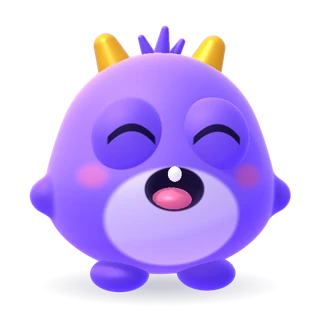
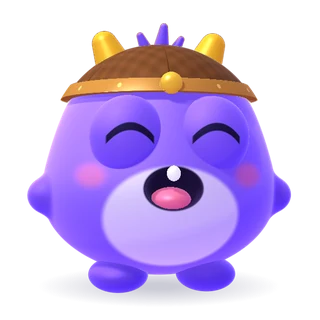
Canavara deri miğfer (her yerde); Güneş Ülkesi'nde zırh + güneş armalı kalkan
Claude-Session: https://claude.ai/code/session_01Ey5QmbkWAGVHGFmAecVhN7

diff --git a/index.html b/index.html
@@ -5733,7 +5733,8 @@ var M3FS=[
 "precision highp float;",
 "uniform vec2 uRes;uniform mat3 uR;uniform vec4 uF;uniform vec4 uA;uniform vec4 uS;uniform vec4 uV;",
 "const float D=7.0;const float HH=1.62;",
-"float gB;float gArm;float gFoot;float gHorn;float gEye;float gTon;float gTooth;float gCav;float gG;float gFm;float gTuft;",
+"float gB;float gArm;float gFoot;float gHorn;float gEye;float gTon;float gTooth;float gCav;float gG;float gFm;float gTuft;float gHelm;float gBand;float gEmb;float gPl;float gSh;",
+"const vec3 SHC=vec3(-1.05,-0.40,0.36);const vec3 SHN=vec3(-0.70,0.0,0.714);",
 "float smin(float a,float b,float k){float h=clamp(0.5+0.5*(b-a)/k,0.0,1.0);return mix(b,a,h)-k*h*(1.0-h);}",
 "float sdEll(vec3 p,vec3 r){float k0=length(p/r);float k1=length(p/(r*r));return k0*(k0-1.0)/max(k1,1e-4);}",
 "float sdRC(vec3 p,vec3 a,vec3 b,float r1,float r2){vec3 ba=b-a;float l2=dot(ba,ba);float rr=r1-r2;float a2=l2-rr*rr;float il2=1.0/l2;vec3 pa=p-a;float y=dot(pa,ba);float z=y-l2;vec3 xv=pa*l2-ba*y;float x2=dot(xv,xv);float y2=y*y*l2;float z2=z*z*l2;float k=sign(rr)*rr*rr*x2;if(sign(z)*a2*z2>k)return sqrt(x2+z2)*il2-r2;if(sign(y)*a2*y2<k)return sqrt(x2+y2)*il2-r1;return (sqrt(x2*a2*il2)+y*rr)*il2-r1;}",
@@ -5760,7 +5761,17 @@ var M3FS=[
 " gFoot=sdEll(a-vec3(0.37,-1.0+lift,0.20+fw),vec3(0.245,0.145,0.31));",
 " gTuft=1e3;",
 " if(uV.y>0.5){gTuft=min(sdRC(p,vec3(0.0,0.82,0.02),vec3(0.03,1.10,0.10),0.085,0.03),min(sdRC(p,vec3(-0.07,0.82,0.0),vec3(-0.17,1.03,0.04),0.07,0.028),sdRC(p,vec3(0.08,0.82,0.0),vec3(0.19,1.01,0.02),0.065,0.026)));}",
-" float d=min(min(body,gHorn),min(gEye,gFoot));d=min(d,min(min(gTon,gTooth),gTuft));",
+" gHelm=1e3;gBand=1e3;gEmb=1e3;gPl=1e3;gSh=1e3;",
+" if(uV.w>0.5){gHelm=max(sdEll(p,vec3(0.94,0.95,0.905)),0.53-p.y);",
+"  gBand=max(sdEll(p,vec3(0.97,0.975,0.935)),abs(p.y-0.535)-0.055);",
+"  gEmb=sdEll(p-vec3(0.0,0.545,0.79),vec3(0.085,0.085,0.06));}",
+" if(uV.w>1.5){",
+"  float pa=max(sdEll(a-vec3(0.90,-0.25,0.15),vec3(0.245,0.19,0.225)),-(a.y+0.31));",
+"  float pl=max(sdEll(p-vec3(0.0,-0.36,0.0),vec3(1.005,0.655,0.925)),max(p.y+0.50,-0.84-p.y));",
+"  gPl=min(pa,pl);",
+"  vec3 v=p-SHC;float dn=dot(v,SHN);vec3 pp=v-dn*SHN;float pr=length(pp);",
+"  gSh=max(abs(dn-0.07*(1.0-pr*pr/0.1225))-0.03,pr-0.35)*0.8;}",
+" float d=min(min(body,gHorn),min(gEye,gFoot));d=min(d,min(min(gTon,gTooth),gTuft));d=min(d,min(min(gHelm,gBand),min(gEmb,min(gPl,gSh))));",
 " return d*min(uS.x,uS.y)*mix(0.9,0.8,step(0.5,uV.x));}",
 "vec3 nrm(vec3 p){vec2 e=vec2(0.0025,-0.0025);return normalize(e.xyy*map(p+e.xyy)+e.yyx*map(p+e.yyx)+e.yxy*map(p+e.yxy)+e.xxx*map(p+e.xxx));}",
 "void main(){",
@@ -5778,8 +5789,19 @@ var M3FS=[
 " vec3 L=normalize(vec3(-0.45,0.80,0.62))*uR;vec3 L2=normalize(vec3(0.75,0.15,-0.55))*uR;vec3 V=-md;vec3 UP=vec3(0.0,1.0,0.0)*uR;",
 " vec3 BODY=vec3(0.615,0.455,1.0);vec3 DARK=vec3(0.50,0.33,0.95);vec3 INK=vec3(0.13,0.10,0.30);",
 " vec3 base=BODY;float gloss=0.0;float fuzz=1.0;float glow=0.0;",
-" float mn=min(min(gB,gHorn),min(gEye,gFoot));mn=min(mn,min(min(gTon,gTooth),gTuft));",
-" if(mn==gTooth){base=vec3(1.0);gloss=0.4;fuzz=0.0;glow=0.5;}",
+" float mn=min(min(gB,gHorn),min(gEye,gFoot));mn=min(mn,min(min(gTon,gTooth),gTuft));mn=min(mn,min(min(gHelm,gBand),min(gEmb,min(gPl,gSh))));",
+" if(mn==gEmb){base=vec3(1.0,0.80,0.28);gloss=0.9;fuzz=0.0;glow=0.18;}",
+" else if(mn==gBand){base=vec3(0.80,0.56,0.26);gloss=0.75;fuzz=0.0;float rv=1.0-smoothstep(0.035,0.05,length(vec2(fract(atan(q.x,q.z)*1.91+0.5)-0.5,(q.y-0.535)*2.2)));base=mix(base,vec3(1.0,0.86,0.5),rv*0.8);}",
+" else if(mn==gHelm){base=vec3(0.52,0.31,0.17);fuzz=0.15;gloss=0.25;float an=atan(q.x,q.z);float sm=1.0-smoothstep(0.01,0.03,abs(fract(an*0.955+0.5)-0.5)/max(0.2,1.0-q.y));base=mix(base,vec3(0.32,0.18,0.09),sm*0.8);base*=0.92+0.08*sin(q.x*40.0)*sin(q.z*37.0);}",
+" else if(mn==gPl){base=vec3(0.56,0.61,0.70);gloss=0.9;fuzz=0.0;glow=0.08;float ln=1.0-smoothstep(0.006,0.016,min(abs(q.y+0.63),abs(q.y+0.74)));base=mix(base,vec3(0.25,0.27,0.34),ln*0.85);",
+"  float ed=1.0-smoothstep(0.02,0.045,min(abs(q.y+0.50),abs(q.y+0.84)));base=mix(base,vec3(0.86,0.62,0.26),ed*0.95);if(q.y>-0.36){base=vec3(0.62,0.66,0.76);}",
+"  float bk=1.0-smoothstep(0.07,0.085,length(vec2(q.x,q.y+0.66)));base=mix(base,vec3(1.0,0.80,0.28),bk*step(0.0,q.z));}",
+" else if(mn==gSh){vec3 v=q-SHC;float dn=dot(v,SHN);vec3 pp=v-dn*SHN;float pr=length(pp);fuzz=0.0;",
+"  vec3 ux=normalize(cross(vec3(0.0,1.0,0.0),SHN));float ang=atan(dot(pp,vec3(0.0,1.0,0.0)),dot(pp,ux));",
+"  base=vec3(0.62,0.13,0.12);gloss=0.35;",
+"  float sun=max(1.0-smoothstep(0.085,0.10,pr),(1.0-smoothstep(0.15,0.20,pr))*smoothstep(0.10,0.11,pr)*step(0.55,abs(cos(ang*5.0))));",
+"  base=mix(base,vec3(1.0,0.80,0.28),sun);if(pr>0.29||dn<0.0){base=vec3(0.86,0.64,0.28);gloss=0.8;}}",
+" else if(mn==gTooth){base=vec3(1.0);gloss=0.4;fuzz=0.0;glow=0.5;}",
 " else if(mn==gTon){base=vec3(1.0,0.50,0.68);gloss=0.3;fuzz=0.0;glow=0.15;}",
 " else if(mn==gTuft){base=mix(DARK,BODY,0.5);}",
 " else if(mn==gEye){",
@@ -5832,7 +5854,7 @@ var M3FS=[
 "}"].join('\n');
 /* görünüm: [tüy halkası, perçem, göz ölçeği] */
 var M3V=[[0,0,1],[1,0,1],[0,1,1.08]];
-var M3={v:2,st:0,gl:null,cv:null,pr:null,u:{},n:512,q:1,live:true,lf:false,ft:0,fc:0,slow:0,off:false,t0:0};
+var M3={gear:1,v:2,st:0,gl:null,cv:null,pr:null,u:{},n:512,q:1,live:true,lf:false,ft:0,fc:0,slow:0,off:false,t0:0};
 (function(){try{var v=JSON.parse(localStorage.getItem('mc_m3'));if(v&&v.v===1){if(v.q>=0.4&&v.q<=1)M3.q=v.q;if(v.l===0)M3.live=false}}catch(e){}})();
 function m3dInit(){
   if(M3.st)return;M3.st=1;M3.t0=Date.now();
@@ -5899,7 +5921,7 @@ function m3dRender(n,o){
   gl.uniform4f(u.uF,Math.max(0,Math.min(1,o.m||0)),o.happy?1:0,o.blink||0,o.t||0);
   gl.uniform4f(u.uA,lx,ly,o.walk||0,o.ph||0);
   gl.uniform4f(u.uS,sqy,1/Math.sqrt(sqy),0,0);
-  var vv=M3V[o.v==null?M3.v:o.v]||M3V[0];gl.uniform4f(u.uV,vv[0],vv[1],vv[2],0);
+  var vv=M3V[o.v==null?M3.v:o.v]||M3V[0];gl.uniform4f(u.uV,vv[0],vv[1],vv[2],o.gear==null?M3.gear:o.gear);
   gl.drawArrays(gl.TRIANGLES,0,3);
   return n;
 }
@@ -7118,7 +7140,7 @@ function guMapHtml(){
   var sel=GU.sel,r=GUR[guReg(sel)];
   h+='<div class="gum" id="gum"><div class="gmw" id="gmw" style="height:'+Math.round(GUM.H*s)+'px"><div class="gload" id="gload">🗺 Harita açılıyor…</div><canvas class="gfog" id="gfog"></canvas>';
   for(n=1;n<=49;n++)h+=guNodeHtml(n,d,s);
-  h+=monImg('idle','gmon')+'</div></div>';
+  h+=monImg('k-idle','gmon')+'</div></div>';
   h+='<div class="gtop"><button class="gbk" onclick="back()" aria-label="Geri">←</button><span class="gch" id="gch">'+r.s+' '+r.n+'</span><span class="gch gl" id="glight">☀ '+L+(d.c<48?' / '+GUGATE:'')+'</span><button class="gsto" onclick="guStory()" aria-label="Hikâyeyi izle">📜</button></div>'+(GUT?'<div class="gtest">🧪 Ön izleme: bütün duraklar açık</div>':'');
   h+='<div class="gcard" id="gcard">'+guCardHtml(sel,d)+'</div>';
   return h;
@@ -7439,7 +7461,7 @@ function guDuelHtml(){
   if(g.ph==='enc'){
     h+='<div class="gdt"><small>'+guRole(g.n)+'</small><b>'+nm+'</b></div>';
     h+='<div class="gdcw big" id="gd-cw"><canvas id="gdc"></canvas></div><div class="gfg f3"></div>';
-    h+='<div class="gdvs">'+monImg('look','gdme0')+'<div class="gvs">VS</div></div>';
+    h+='<div class="gdvs">'+monImg('k-look','gdme0')+'<div class="gvs">VS</div></div>';
     h+='<div class="gdinfo"><span class="gpill">👾 5 can</span><span class="gpill">❤ '+g.mx+' can</span></div>';
     if(g.mx>3)h+='<p class="gdrule gsh">🛡 Canavar arkadaşın sana kalkan verdi: <b>+1 can!</b></p>';
     h+='<p class="gdrule">Önce sen bil, sen vur! ⚔<br>Yanlış ya da geç kalırsan o vurur.</p>';
@@ -7459,12 +7481,12 @@ function guDuelHtml(){
     var res=g.res2||{};
     h+='<div class="gray"></div><div class="gdcw big" id="gd-cw"><canvas id="gdc"></canvas></div>';
     h+='<div class="gdwin"><b>✨ '+nm+' ışığa dönüştü!</b><span>'+guWinSub(g.n)+'</span></div>';
-    h+=monImg('cheer','gdme1')+'<div class="gdinfo">'+(res.gain?'<span class="gpill">☀ +'+res.gain+' güneş ışığı</span>':'')+'</div>';
+    h+=monImg('k-cheer','gdme1')+'<div class="gdinfo">'+(res.gain?'<span class="gpill">☀ +'+res.gain+' güneş ışığı</span>':'')+'</div>';
     h+='<button class="gbtn gold" onclick="guToMap()">'+(g.n===49?'🏰 Haritaya dön':'🗺 Yola devam')+'</button></div>';
     return h;
   }
   h+='<div class="gdcw big" id="gd-cw"><canvas id="gdc"></canvas></div><div class="gfg f3"></div>';
-  h+='<div class="gdwin lose"><b>İyi mücadele! 💪</b><span>'+nm+' bu sefer hızlıydı. Bir daha dene, yanındayım!</span></div>'+monImg('peek','gdme1 glm');
+  h+='<div class="gdwin lose"><b>İyi mücadele! 💪</b><span>'+nm+' bu sefer hızlıydı. Bir daha dene, yanındayım!</span></div>'+monImg('k-peek','gdme1 glm');
   h+='<button class="gbtn gold" onclick="guDuelOpen('+g.n+')">⚔ Tekrar Kapış</button><button class="gbtn ghost2" onclick="guPractice()">'+r.s+' '+guOpLabel(g.n)+' pratiği yap</button><button class="gbtn ghost2" onclick="guToMap()">🗺 Haritaya dön</button></div>';
   return h;
 }

diff --git a/sw.js b/sw.js
@@ -1,7 +1,7 @@
 var CACHE = 'mc-v68';
 /* Güneş Ülkesi dosyaları (gu/): ilk kullanılınca indirilir, sürümler arasında saklanır */
 var GUC = 'mc-gu2';
-var FILES = ['./', './index.html', './manifest.json', './icon-192.png', './icon-512.png', './lose.mp3', './pass.mp3', './top.mp3', './win.mp3', './tur.mp3', './menu.mp3', './gizlilik.html', './aydinlatma.html', './veri-silme.html', './mc-idle.webp', './mc-happy.webp', './mc-look.webp', './mc-wait.webp', './mc-cheer.webp', './mc-sad.webp', './mc-peek.webp', './mc-blink.webp', './mc-sidel.webp', './mc-sider.webp'];
+var FILES = ['./', './index.html', './manifest.json', './icon-192.png', './icon-512.png', './lose.mp3', './pass.mp3', './top.mp3', './win.mp3', './tur.mp3', './menu.mp3', './gizlilik.html', './aydinlatma.html', './veri-silme.html', './mc-idle.webp', './mc-happy.webp', './mc-look.webp', './mc-wait.webp', './mc-cheer.webp', './mc-sad.webp', './mc-peek.webp', './mc-blink.webp', './mc-sidel.webp', './mc-sider.webp', './mc-k-idle.webp', './mc-k-look.webp', './mc-k-cheer.webp', './mc-k-peek.webp'];
 
 self.addEventListener('install', function (e) {
   e.waitUntil(caches.open(CACHE).then(function (c) { return c.addAll(FILES.map(function (f) { return new Request(f, { cache: 'reload' }); })); }));
